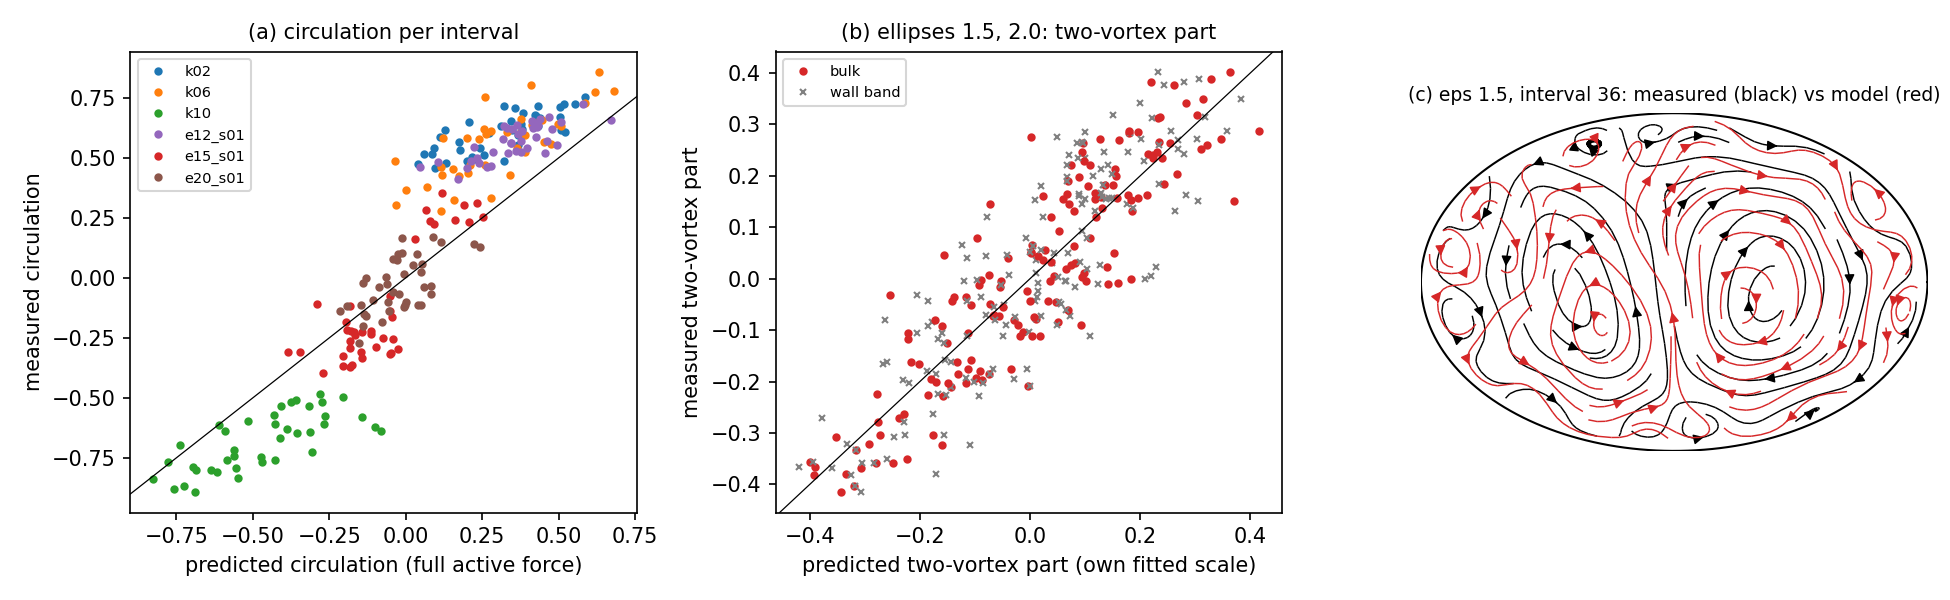
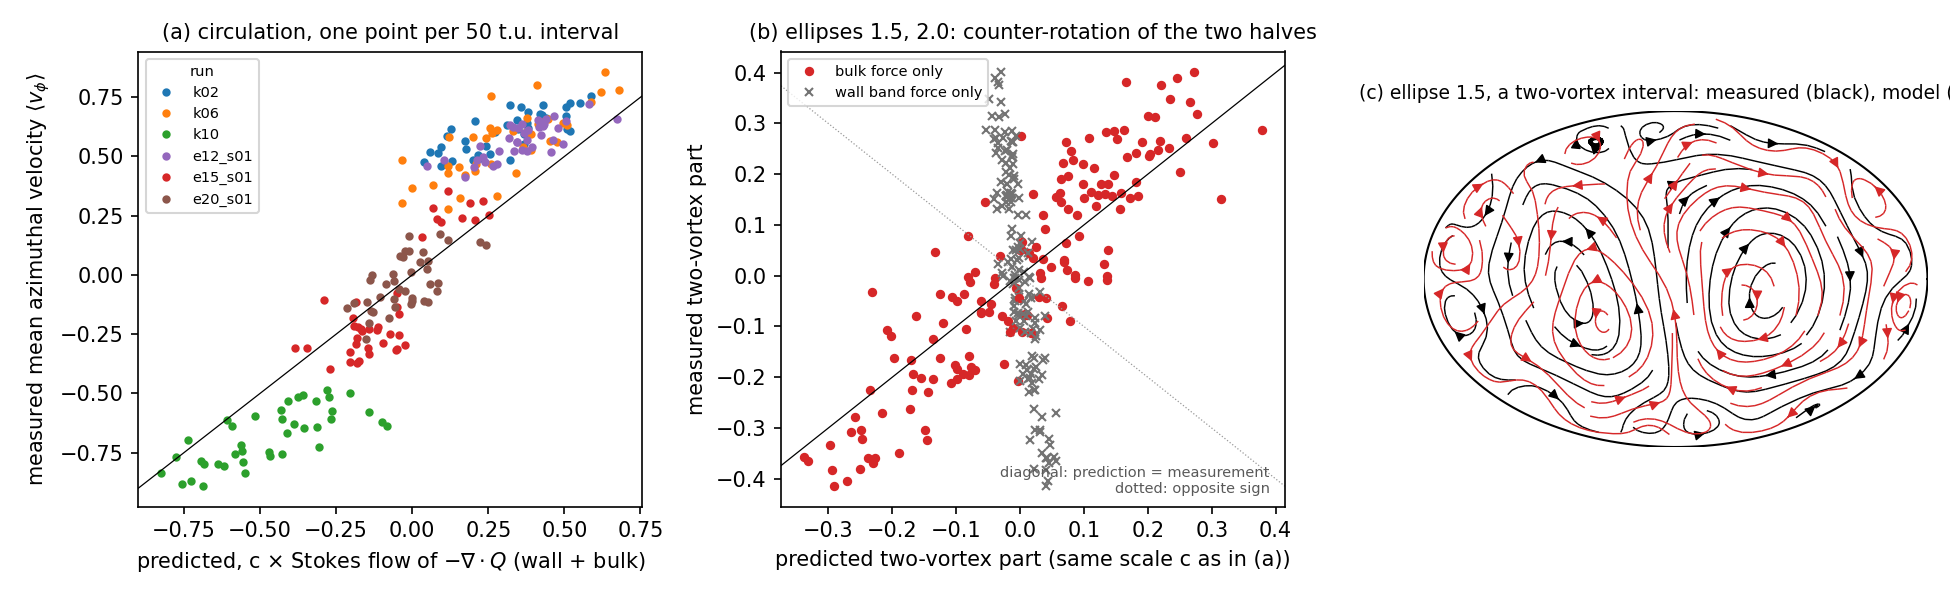
Fig. 5 (director-field Stokes) redrawn on a common scale; caption spells out the model
- fig_dir.py: (b) bulk and wall-band predictions with the run's single fitted c (the per-source scale flipped and stretched the wall band ~7x); (a) axis = mean azimuthal velocity
- Caption: f = -div Q from the measured director, wall band vs bulk, 2D no-slip Stokes, one c per run, interval definition, two-vortex part

diff --git a/reports/master/theory/dirstokes/fig_dir.py b/reports/master/theory/dirstokes/fig_dir.py
@@ -22,15 +22,19 @@ def load(tag):
 fig = plt.figure(figsize=(13, 4)); ax1 = fig.add_subplot(1, 3, 1); ax2 = fig.add_subplot(1, 3, 2)
 for tag, col in (("k02", "C0"), ("k06", "C1"), ("k10", "C2"), ("e12_s01", "C4"), ("e15_s01", "C3"), ("e20_s01", "C5")):
     d, meas, uw, ub, c = load(tag); ax1.plot(c * circ(d["x"], d["y"], uw + ub), circ(d["x"], d["y"], meas), "o", ms=3, color=col, label=tag)
-ax1.axline((0, 0), slope=1, color="k", lw=0.6); ax1.set_xlabel("predicted circulation (full active force)"); ax1.set_ylabel("measured circulation")
-ax1.set_title("(a) circulation per interval", fontsize=10); ax1.legend(fontsize=7)
+ax1.axline((0, 0), slope=1, color="k", lw=0.6); ax1.set_xlabel("predicted, c × Stokes flow of $-\\nabla\\cdot Q$ (wall + bulk)"); ax1.set_ylabel("measured mean azimuthal velocity $\\langle v_\\phi\\rangle$")
+ax1.set_title("(a) circulation, one point per 50 t.u. interval", fontsize=10); ax1.legend(fontsize=7, title="run", title_fontsize=7)
 for tag in ("e15_s01", "e15_s02", "e20_s01", "e20_s02"):
     d, meas, uw, ub, c = load(tag); x, y = d["x"], d["y"]; Hm = halves(x, y, meas); am = (Hm[:, 0] - Hm[:, 1]) / 2
     for U, mk, lab in ((ub, "o", "bulk"), (uw, "x", "wall band")):
-        Hp = halves(x, y, U); ap = (Hp[:, 0] - Hp[:, 1]) / 2; cc = np.sum(ap * am) / np.sum(ap * ap)
-        ax2.plot(cc * ap, am, mk, ms=3, color="C3" if lab == "bulk" else "gray", label=lab if tag == "e15_s01" else None)
-ax2.axline((0, 0), slope=1, color="k", lw=0.6); ax2.set_xlabel("predicted two-vortex part (own fitted scale)"); ax2.set_ylabel("measured two-vortex part")
-ax2.set_title("(b) ellipses 1.5, 2.0: two-vortex part", fontsize=10); ax2.legend(fontsize=7)
+        # Same scale c for both sources (the run's single fitted activity factor). An own fitted scale per source flipped the sign of the wall band and
+        # hid that it OPPOSES the two-vortex flow (user, 2026-10-13).
+        Hp = halves(x, y, U); ap = (Hp[:, 0] - Hp[:, 1]) / 2
+        ax2.plot(c * ap, am, mk, ms=3.5, color="C3" if lab == "bulk" else "0.45", label=(lab + " force only") if tag == "e15_s01" else None)
+ax2.axline((0, 0), slope=1, color="k", lw=0.6); ax2.axline((0, 0), slope=-1, color="0.6", lw=0.6, ls=":")
+ax2.text(0.97, 0.03, "diagonal: prediction = measurement\ndotted: opposite sign", transform=ax2.transAxes, ha="right", fontsize=7, color="0.35")
+ax2.set_xlabel("predicted two-vortex part (same scale c as in (a))"); ax2.set_ylabel("measured two-vortex part")
+ax2.set_title("(b) ellipses 1.5, 2.0: counter-rotation of the two halves", fontsize=10); ax2.legend(fontsize=7, loc="upper left")
 d, meas, uw, ub, c = load("e15_s01"); x, y = d["x"], d["y"]; Hm = halves(x, y, meas); n = int(np.argmax(-(Hm[:, 0] * Hm[:, 1])))
 ax3 = fig.add_subplot(1, 3, 3); A, B = float(d["A"]), float(d["B"])
 from scipy.interpolate import griddata
@@ -39,5 +43,5 @@ for U, col, lab, off in ((meas[n], "k", "measured", 0), (c * (uw[n] + ub[n]), "C
     vx = griddata((x, y), U[:, 0], (gx, gy)); vy = griddata((x, y), U[:, 1], (gx, gy))
     ax3.streamplot(gx, gy, np.nan_to_num(vx), np.nan_to_num(vy), color=col, density=0.8, linewidth=0.7)
 t = np.linspace(0, 2 * np.pi, 200); ax3.plot(A * np.cos(t), B * np.sin(t), "k-", lw=1); ax3.set_aspect("equal")
-ax3.set_title(f"(c) eps 1.5, interval {n}: measured (black) vs model (red)", fontsize=9); ax3.axis("off")
+ax3.set_title("(c) ellipse 1.5, a two-vortex interval: measured (black), model (red)", fontsize=9); ax3.axis("off")
 fig.tight_layout(); fig.savefig(os.path.join(H, "dirstokes.png"), dpi=150); print("ok")

diff --git a/reports/theory_report/theory_report.tex b/reports/theory_report/theory_report.tex
@@ -168,8 +168,14 @@ neither keeps $2k-2$ defects at the wall nor makes a circulation.
 
 \begin{figure}[H]\centering
 \includegraphics[width=\textwidth]{dirstokes.png}
-\caption{Director-field Stokes model. (a) Predicted vs measured circulation per interval (circles $k=2,6,10$; ellipses). (b) Two-vortex component in ellipses
-1.5 and 2.0, from the bulk (red) and the wall band (grey). (c) Measured (black) and model (red) streamlines in an ellipse, $\varepsilon=1.5$.}\label{fig:stokes}
+\caption{Director-field Stokes model. From the measured director and order parameter we build $Q=S(\mathbf{nn}-\mathbb{I}/2)$ and the active force density $\mathbf f=-\nabla\!\cdot Q$,
+averaged over each flow-output interval (50\,t.u.; 40 intervals from the last 80\% of each run), split into a wall band ($<4$ cells from the wall) and the bulk, and solve 2D Stokes flow
+with no-slip walls for each part. The predicted flow is compared cell by cell with the measured interval-averaged flow (first cell at the wall excluded); the unknown factor
+$\zeta_\mathrm{eff}/\eta$ is one positive coefficient $c$ per run, fitted to the full force. (a) Circulation, measured as the mean azimuthal velocity $\langle v_\phi\rangle$ over the
+cavity, against $c$ times the prediction of the full force; one point per interval; circles $k=2$, 6, 10 and ellipses $\varepsilon=1.2$, 1.5, 2.0 ($k=6$). (b) Two-vortex part in
+ellipses $\varepsilon=1.5$ and 2.0 (two seeds each): the mean rotation of the left and right halves about their own centres, $(\text{left}-\text{right})/2$, which vanishes for a single
+vortex. Predicted from the bulk force alone (red) or the wall-band force alone (grey), both with the same $c$: the bulk reproduces the counter-rotation, the wall band contributes little
+and with the opposite sign. (c) An interval of the $\varepsilon=1.5$ ellipse with two vortices: measured (black) and predicted (full force, red) streamlines.}\label{fig:stokes}
 \end{figure}
 
 \paragraph{The layer as an effective boundary (Fig.~\ref{fig:effbc}).} Seen from the bulk, the layer of $2k-2$ defects converts the $k$-fold patterned anchoring into an

diff --git a/RESEARCH.md b/RESEARCH.md
@@ -1686,3 +1686,4 @@ Wall −1/2 in time bins 0–20 / 20–100 / 100–300 / 300–700 / 700–1500 
 - (23:10) QUEUED lamsize batch 2 (user: 2 seeds too few; add circles smaller than ℓa): runs/lamsize/jobs2.txt, 67 runs — s3–s5 for R_eq 1/1.5/2 × λ 1.5/1.75/2 (27) and s1–s5 for R_eq 0.5/0.75 × λ 1.5/1.75/2/3 (40; λ 3 as a high-alignment reference for the small circles). Same settings (k 6, ζ 0.07, density 20, 30000 steps, domain ceil(2R)+2). Detached runs/lamsize/run_batch2.sh waits for the channel chain (PID 7052) then runs 14 in parallel (~5–6 h, set by the R_eq 2 runs), then writes energetics/tiltlaw_lamsize_byR.txt (all seeds, per R_eq).
 - (later) fig_vortdef_ff36: legends of (a, b) moved below the panels, colour = location, style = escaper/control (user: legends collided with curves).
 - (later) fig_vortdef_ff36 rebuilt with a sampling-geometry sketch (a), explicit y labels (b: circulation-signed ω; c,d: lobe vorticity / Ω0 = 0.12, defect frame; d core ω on its own right axis), caption spells out every definition.
+- (later) Fig. 5 (dirstokes) redrawn: (b) bulk and wall-band predictions on the run's single fitted c (the old per-source scale flipped the wall band's sign and made it look as good as the bulk); wall band now small and anti-correlated as stated in the text. (a) axis = mean azimuthal velocity; caption spells out the model (f = -div Q from measured director, wall band <4 cells vs bulk, 2D no-slip Stokes, one c per run, 40 x 50 t.u. intervals).
